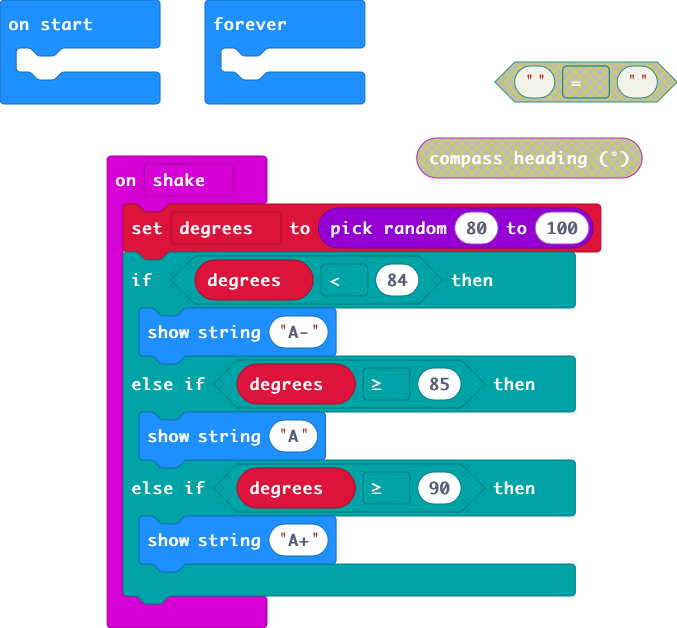
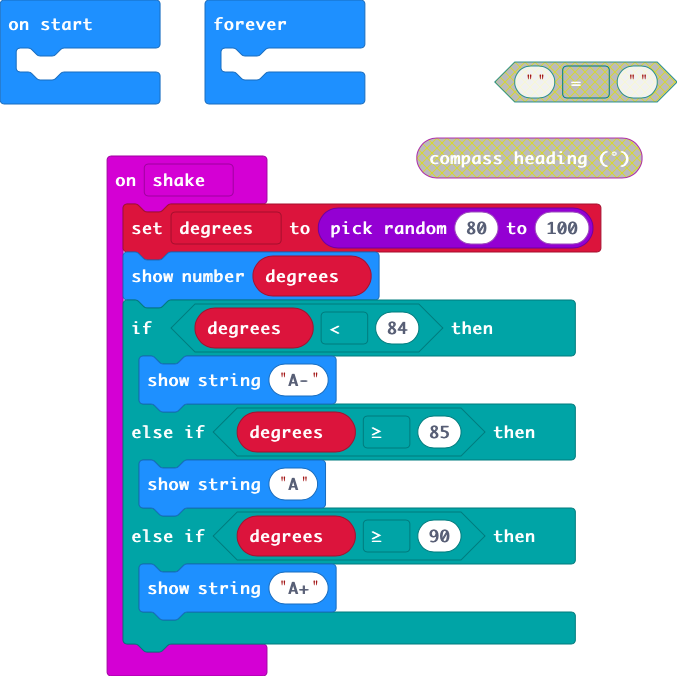
Update main.blocks, main.ts

Changed region(s): [[0.1551, 0.0908, 1.0, 0.9682], [0.2792, 0.0303, 0.5583, 0.1815], [0.0, 0.0303, 0.2482, 0.1815]]

diff --git a/main.ts b/main.ts
@@ -1,6 +1,7 @@
 let degrees = 0
 input.onGesture(Gesture.Shake, function () {
     degrees = randint(80, 100)
+    basic.showNumber(degrees)
     if (degrees < 84) {
         basic.showString("A-")
     } else if (degrees >= 85) {
